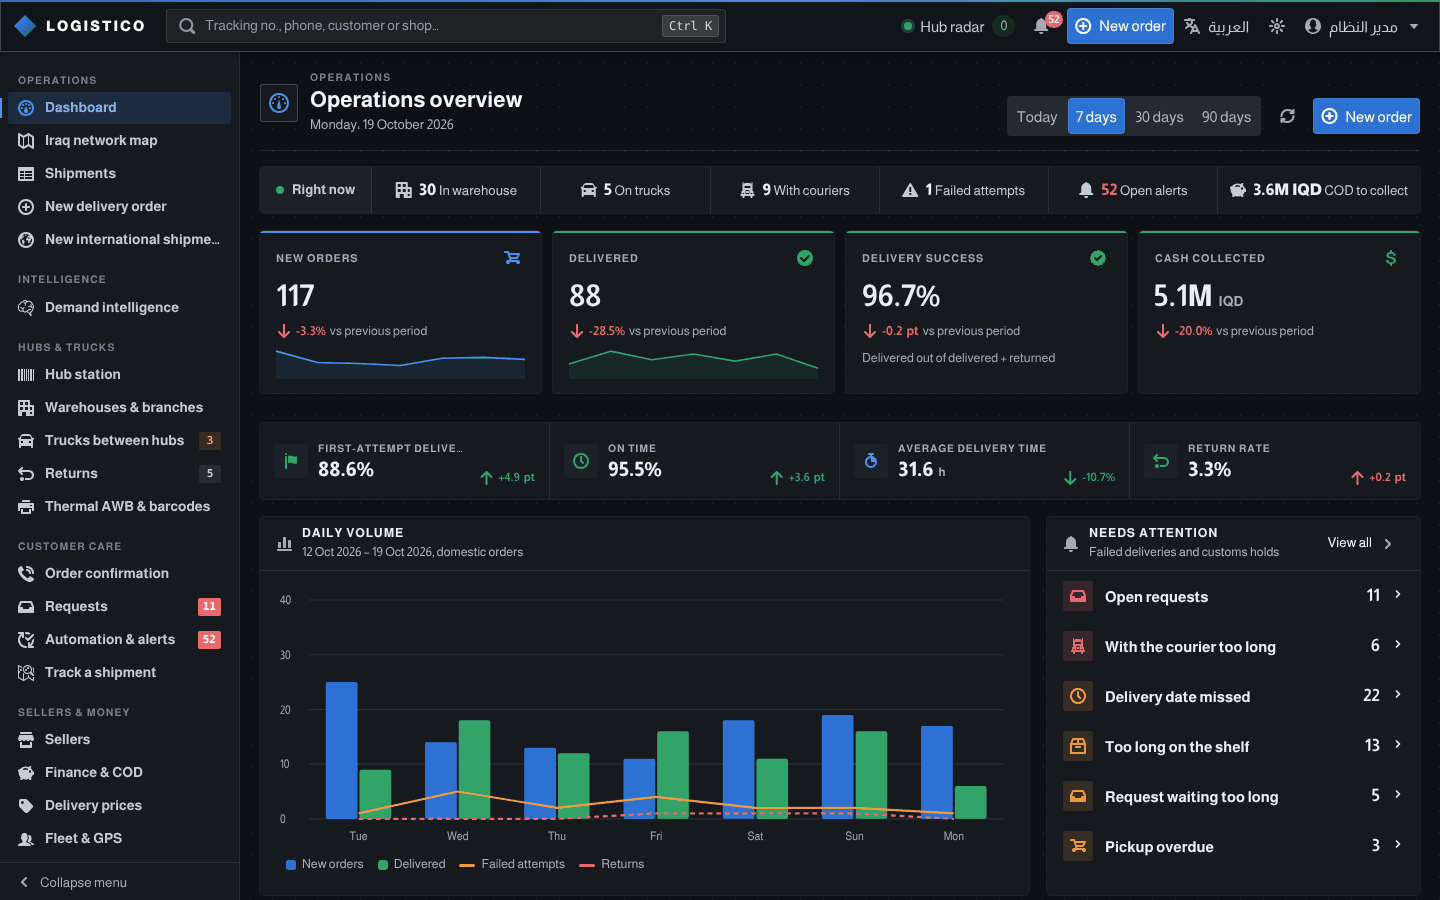
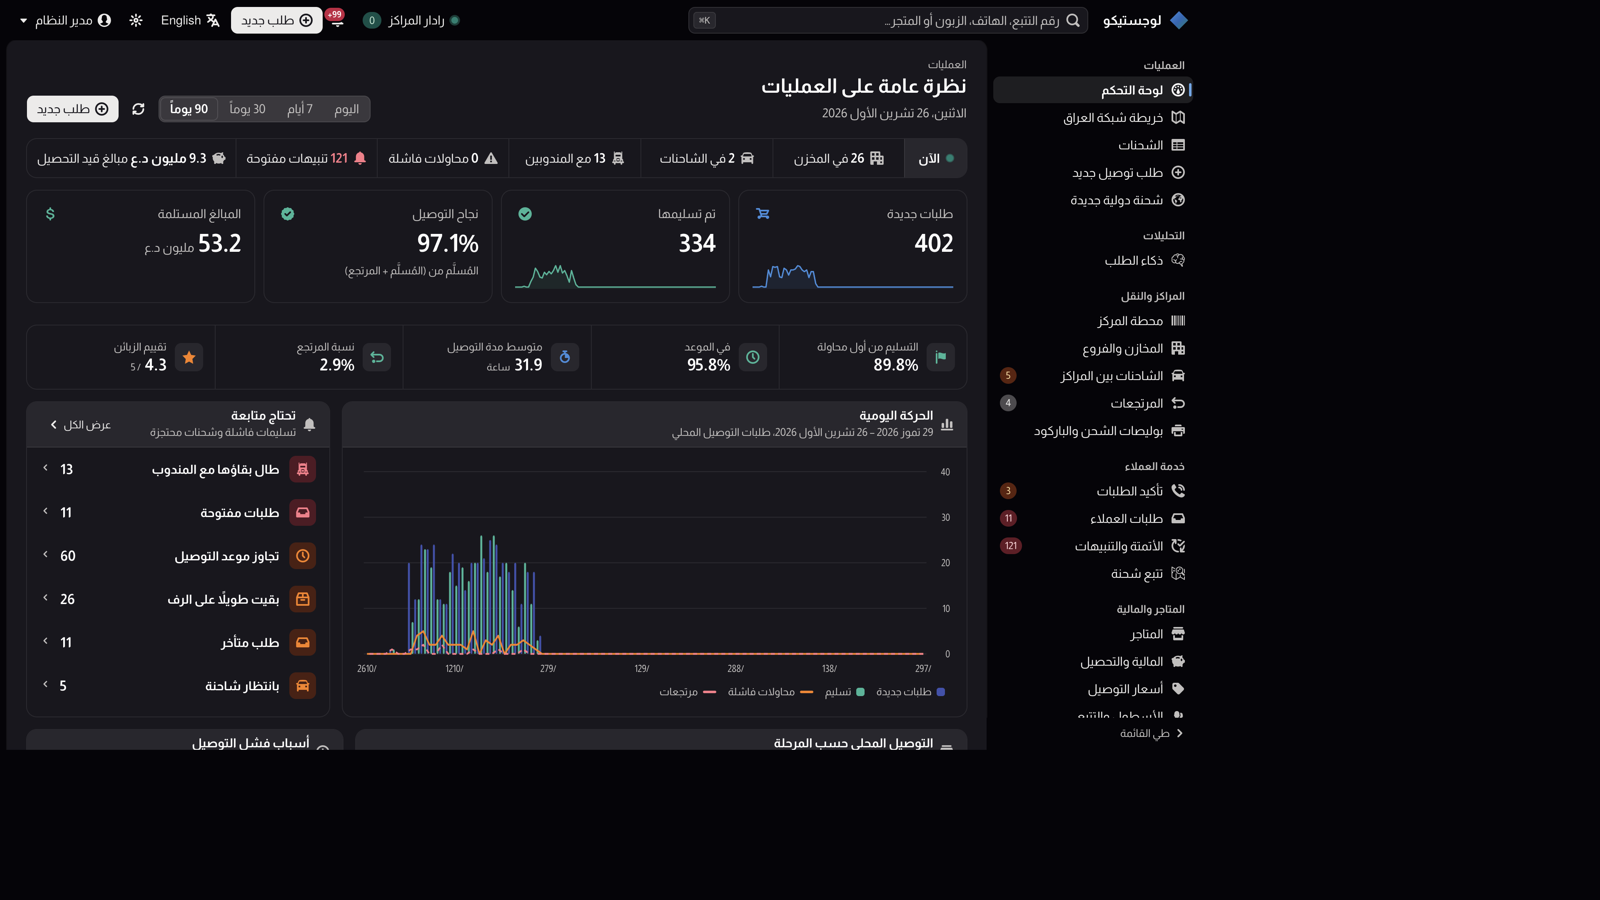
Show the current console and soften dark-mode borders.
The README, screenshots and public page now describe the light delivery console, and dark mode no longer keeps the light theme's bright outlines.

diff --git a/src/Logistico.Web/wwwroot/app.css b/src/Logistico.Web/wwwroot/app.css
@@ -261,6 +261,7 @@ html[lang^="ar"] { --lx-font-size: 15px; --lx-font-size-sm: 13px; }
 html {
     font-size: var(--lx-font-size); -webkit-text-size-adjust: 100%;
     -webkit-font-smoothing: antialiased; -moz-osx-font-smoothing: grayscale;
+    color-scheme: light;
 }
 html, body { margin: 0; min-height: 100%; }
 body {
@@ -1723,9 +1724,10 @@ tr.lx-row-busy { opacity: 0.55; }
     --lx-surface-overlap: var(--gl-color-neutral-900);
     --lx-surface-hover: rgba(255, 255, 255, 0.12);
     --lx-surface-active: rgba(255, 255, 255, 0.08);
-    --lx-border: var(--gl-color-neutral-700);
-    --lx-border-subtle: var(--gl-color-neutral-800);
-    --lx-border-strong: var(--gl-color-neutral-600);
+    /* Hairlines, not wires: a solid mid-grey on near-black reads as a hard grid. */
+    --lx-border: rgba(255, 255, 255, 0.08);
+    --lx-border-subtle: rgba(255, 255, 255, 0.05);
+    --lx-border-strong: rgba(255, 255, 255, 0.14);
     --lx-text: var(--gl-color-neutral-50);
     --lx-text-strong: var(--gl-color-neutral-0);
     --lx-text-2: var(--gl-color-neutral-100);
@@ -1734,8 +1736,8 @@ tr.lx-row-busy { opacity: 0.55; }
     --lx-link: var(--gl-color-blue-200);
 
     --lx-control-bg: rgba(5, 5, 6, 0.4);
-    --lx-control-border: var(--gl-color-neutral-500);
-    --lx-control-border-hover: var(--gl-color-neutral-300);
+    --lx-control-border: rgba(255, 255, 255, 0.2);
+    --lx-control-border-hover: rgba(255, 255, 255, 0.34);
     --lx-control-border-focus: var(--gl-color-neutral-50);
     --lx-control-disabled: rgba(255, 255, 255, 0.04);
     --lx-placeholder: var(--gl-color-neutral-400);
@@ -1743,8 +1745,8 @@ tr.lx-row-busy { opacity: 0.55; }
     --lx-selected-hover: var(--gl-color-neutral-10);
     --lx-selected-active: var(--gl-color-neutral-0);
     --lx-on-selected: var(--gl-color-neutral-950);
-    --lx-button-border: rgba(255, 255, 255, 0.16);
-    --lx-button-border-hover: rgba(255, 255, 255, 0.32);
+    --lx-button-border: rgba(255, 255, 255, 0.1);
+    --lx-button-border-hover: rgba(255, 255, 255, 0.2);
     --lx-button-hover: rgba(137, 136, 141, 0.32);
     --lx-button-active: rgba(137, 136, 141, 0.24);
     --lx-focus: var(--gl-color-blue-400);
@@ -1753,21 +1755,21 @@ tr.lx-row-busy { opacity: 0.55; }
     --lx-primary: var(--gl-color-blue-400);
     --lx-primary-soft: color-mix(in srgb, var(--gl-color-blue-950) 80%, transparent);
     --lx-primary-text: var(--gl-color-blue-200);
-    --lx-primary-border: var(--gl-color-blue-600);
+    --lx-primary-border: color-mix(in srgb, var(--gl-color-blue-300) 42%, transparent);
     --lx-success: var(--gl-color-green-300);
     --lx-success-soft: color-mix(in srgb, var(--gl-color-green-900) 75%, transparent);
     --lx-success-text: var(--gl-color-green-200);
-    --lx-success-border: var(--gl-color-green-600);
+    --lx-success-border: color-mix(in srgb, var(--gl-color-green-300) 40%, transparent);
     --lx-warning: var(--gl-color-orange-300);
     --lx-warning-soft: color-mix(in srgb, var(--gl-color-orange-900) 75%, transparent);
     --lx-warning-text: var(--gl-color-orange-200);
-    --lx-warning-border: var(--gl-color-orange-600);
+    --lx-warning-border: color-mix(in srgb, var(--gl-color-orange-300) 40%, transparent);
     --lx-danger: var(--gl-color-red-300);
     --lx-danger-soft: color-mix(in srgb, var(--gl-color-red-900) 75%, transparent);
     --lx-danger-text: var(--gl-color-red-200);
-    --lx-danger-border: var(--gl-color-red-300);
+    --lx-danger-border: color-mix(in srgb, var(--gl-color-red-300) 42%, transparent);
     --lx-neutral-soft: var(--gl-color-neutral-900);
-    --lx-neutral-border: var(--gl-color-neutral-600);
+    --lx-neutral-border: rgba(255, 255, 255, 0.1);
 
     --lx-badge-neutral-bg: var(--gl-color-neutral-700);
     --lx-badge-neutral-text: var(--gl-color-neutral-50);
@@ -1804,7 +1806,7 @@ tr.lx-row-busy { opacity: 0.55; }
     --lx-map-4: var(--gl-color-data-blue-500);
     --lx-map-5: var(--gl-color-data-blue-300);
     --lx-map-6: var(--gl-color-data-blue-100);
-    --lx-map-stroke: var(--gl-color-neutral-950);
+    --lx-map-stroke: rgba(255, 255, 255, 0.14);
     --lx-map-ink: var(--gl-color-neutral-0);
     --lx-map-halo: rgba(5, 4, 8, 0.85);
     --lx-map-d0: var(--gl-color-red-300);
@@ -1822,13 +1824,23 @@ tr.lx-row-busy { opacity: 0.55; }
     --lx-shadow-sm: 0 0 2px 0 rgba(5, 5, 6, 0.4), 0 1px 4px 0 rgba(5, 5, 6, 0.4);
     --lx-shadow-md: 0 0 1px 0 rgba(5, 5, 6, 0.4), 0 0 2px 0 rgba(5, 5, 6, 0.4), 0 2px 8px 0 rgba(5, 5, 6, 0.4);
     --lx-shadow-lg: 0 0 2px 0 rgba(5, 5, 6, 0.4), 0 0 2px 0 rgba(5, 5, 6, 0.4), 0 4px 12px 0 rgba(5, 5, 6, 0.4);
+    /* Redefined here: these shadows are computed on :root, so they otherwise keep the light-theme border. */
+    --lx-shadow: 0 0 0 1px rgba(255, 255, 255, 0.08);
+    --lx-shadow-interactive: 0 0 0 1px rgba(255, 255, 255, 0.16), var(--lx-shadow-sm);
+    --lx-shadow-raised: 0 0 0 1px rgba(255, 255, 255, 0.14), var(--lx-shadow-lg);
+    --lx-focus-ring: 0 0 0 1px var(--gl-color-neutral-950), 0 0 0 3px var(--gl-color-blue-400);
 }
+html:has(body.bp6-dark) { color-scheme: dark; }
 body.bp6-dark { color: var(--lx-text); background: var(--lx-bg); color-scheme: dark; }
 .bp6-dark ::selection { background: var(--gl-color-blue-900); }
 .bp6-dark .lx-command-card { color: #050408; }
 .bp6-dark .lx-nav-item.active::before { background: var(--gl-color-blue-300); }
 .bp6-dark .lx-segmented-raised, .bp6-dark .bp6-segmented-control > .bp6-button.bp6-intent-primary,
-.bp6-dark .bp6-segmented-control > .bp6-button.bp6-intent-primary:hover { background: var(--gl-color-neutral-700); box-shadow: none; }
+.bp6-dark .bp6-segmented-control > .bp6-button.bp6-intent-primary:hover {
+    background: var(--gl-color-neutral-800); box-shadow: inset 0 0 0 1px rgba(255, 255, 255, 0.12);
+}
+.bp6-dark .lx-map-gov:hover { stroke: rgba(255, 255, 255, 0.55); }
+.bp6-dark .lx-map-gov-selected { stroke: var(--gl-color-blue-200) !important; }
 /* Filled intent buttons only: minimal and outlined ones keep their transparent background. */
 .bp6-dark .bp6-button.bp6-intent-danger:not(.bp6-minimal):not(.bp6-outlined) { background: var(--gl-color-red-500); box-shadow: none; }
 .bp6-dark .bp6-button.bp6-intent-danger:not(.bp6-minimal):not(.bp6-outlined):hover { background: var(--gl-color-red-600); }
@@ -1840,7 +1852,7 @@ body.bp6-dark { color: var(--lx-text); background: var(--lx-bg); color-scheme: d
 .bp6-dark .bp6-input, .bp6-dark .bp6-html-select select { color: var(--lx-text-strong); }
 .bp6-dark .bp6-html-select option { background: var(--gl-color-neutral-900); color: var(--lx-text); }
 .bp6-dark .lx-main { box-shadow: 0 0 0 1px var(--lx-border-subtle); }
-.bp6-dark .lx-toast { box-shadow: 0 0 0 1px var(--gl-color-neutral-600), var(--lx-shadow-lg); }
+.bp6-dark .lx-toast { box-shadow: 0 0 0 1px rgba(255, 255, 255, 0.12), var(--lx-shadow-lg); }
 
 
 /* ---------- 15. Small screens ---------- */

diff --git a/src/Logistico.Web/wwwroot/js/lx.js b/src/Logistico.Web/wwwroot/js/lx.js
@@ -32,10 +32,18 @@ window.lx = {
         try { localStorage.setItem("lx.theme", on ? "dark" : "light"); } catch { /* private mode */ }
         window.lx._chrome(on);
     },
-    // The browser's own bars follow the application chrome colour.
+    // The browser's own bars follow the application chrome colour. color-scheme stays explicit:
+    // "light dark" would let the operating system restyle controls while the app is still light.
     _chrome: (dark) => {
         document.body.classList.toggle("bp6-dark", dark);
+        document.documentElement.style.colorScheme = dark ? "dark" : "light";
         document.querySelector('meta[name="theme-color"]')?.setAttribute("content", dark ? "#050408" : "#ecebea");
+        document.querySelector('meta[name="color-scheme"]')?.setAttribute("content", dark ? "dark" : "light");
+    },
+    shortcutHint: () => {
+        const platform = navigator.userAgentData?.platform || navigator.platform || "";
+        const apple = /mac|iphone|ipad|ipod/i.test(platform) || /Mac|iPhone|iPad/.test(navigator.userAgent);
+        return apple ? "⌘K" : "Ctrl K";
     },
     isMuted: () => { try { return localStorage.getItem("lx.muted") === "true"; } catch { return false; } },
     setMuted: (muted) => {

diff --git a/src/Logistico.Web/wwwroot/account.css b/src/Logistico.Web/wwwroot/account.css
@@ -55,7 +55,7 @@ textarea.form-control { height: auto; min-height: 72px; padding-block: 6px; }
 .nav { list-style: none; padding: 0; margin: 0; display: flex; flex-direction: column; gap: 2px; }
 .nav-link { display: block; padding: 6px 12px; border-radius: var(--lx-radius); color: var(--lx-text); text-decoration: none; }
 .nav-link:hover { background: var(--lx-surface-hover); text-decoration: none; }
-.nav-link.active { background: rgba(5, 5, 6, 0.08); color: var(--lx-text-strong); font-weight: 700; }
+.nav-link.active { background: var(--lx-nav-active, rgba(5, 5, 6, 0.08)); color: var(--lx-text-strong); font-weight: 700; }
 
 .table { width: 100%; border-collapse: collapse; }
 .table td, .table th { padding: 10px 16px; border-block-end: 1px solid var(--lx-border); text-align: start; }

diff --git a/README.md b/README.md
@@ -2,13 +2,17 @@
 
 # Logistico · لوجستيكو
 
-**Open-source logistics and delivery platform built for Iraq: from the Instagram shop to the customer's door, with the data to make Iraqi shipping better.**
+**Open-source logistics and delivery management system: orders, warehouses, trucks, couriers, shipment tracking, returns and cash on delivery — built for Iraq, useful anywhere the address is a neighbourhood and a landmark.**
 
-Version 3.0 · Arabic-first (RTL) · English · .NET 10 · Blazor WebAssembly · PostgreSQL · Blueprint (Palantir's design system)
+Version 3.0 · Arabic-first (RTL) · English · .NET 10 · Blazor WebAssembly · PostgreSQL · Apache-2.0
 
 [Quick start](#quick-start) · [What it does](#what-it-does) · [Demand intelligence](#demand-intelligence-the-data-advantage) · [Docs](#documentation) · [Contributing](CONTRIBUTING.md)
 
-![Operations overview, dark theme](docs/images/dashboard-dark.png)
+A delivery company runs the whole day in one console: book a parcel, scan it through hubs, put it on a truck, hand it to a courier, collect the cash, and see why deliveries fail. The interface is **light by default** (a quiet grey frame and white work panels). Dark mode is one click in the top bar. Arabic is the default language and the layout is right-to-left.
+
+![Operations overview in the light theme: orders, delivery success, cash collected and the daily volume](docs/images/dashboard-light.png)
+
+![The same operations overview in the dark theme](docs/images/dashboard-dark.png)
 
 </div>
 
@@ -47,8 +51,8 @@ do deliveries fail?** Companies can publish anonymised answers as open data, so 
 
 <table>
 <tr>
-<td width="50%"><img src="docs/images/network-map-ar.png" alt="Iraq network map in Arabic"></td>
-<td width="50%"><img src="docs/images/shipments-light.png" alt="Shipments list, light theme"></td>
+<td width="50%"><img src="docs/images/network-map-ar.png" alt="Open-source logistics software: Iraq network map with hubs, trucks and governorates, Arabic right-to-left"></td>
+<td width="50%"><img src="docs/images/shipments-light.png" alt="Delivery management shipment list with tracking numbers, status, cash on delivery and destination"></td>
 </tr>
 <tr>
 <td align="center">Iraq network map (Arabic, right-to-left)</td>
@@ -100,7 +104,7 @@ dotnet run --project src/Logistico.Web --launch-profile http
 ```
 
 - App: http://localhost:5210 · Public tracking: http://localhost:5210/track · OpenAPI: http://localhost:5210/openapi/v1.json
-- The UI is in Arabic by default; switch to English from the top bar. Dark theme by default; light from the top bar.
+- The UI is in Arabic by default; switch to English from the top bar. Light theme by default; dark from the top bar.
 
 ### Tests
 
@@ -117,7 +121,7 @@ Set `LOGISTICO_TEST_DB` to point the integration tests at another PostgreSQL ser
 | Layer | Choice |
 |---|---|
 | Language / runtime | C# on .NET 10 (LTS) |
-| Web UI | Blazor WebAssembly with Logistico's own components on **Blueprint 6** CSS and icons (Palantir, Apache-2.0). Dark operations-console theme by default |
+| Web UI | Blazor WebAssembly with Logistico's own components. **GitLab Pajamas** sets the look (light by default, dark on request); **Blueprint 6** CSS and icons (Palantir, Apache-2.0) supply tables, menus, dialogs and hotkeys |
 | Languages | Arabic (`ar-IQ`, default, RTL) and English; Almarai font; Western digits; Iraqi month names; Arabic plural forms |
 | Backend | ASP.NET Core modular monolith (strict module boundaries, contracts shared with the browser) |
 | Database | PostgreSQL with EF Core 10 (schema per module, snake_case, optimistic concurrency) |

diff --git a/CHANGELOG.md b/CHANGELOG.md
@@ -26,6 +26,11 @@ versions follow [Semantic Versioning](https://semver.org/).
   payout waits for the next one. 0 % (the default) keeps returns free.
 
 ### Fixed
+- **Dark mode drew a hard grid.** Cards, tables, the dashboard pulse, shipment rows and the Iraq map used solid mid-grey borders on a near-black surface. Those lines are now faint white hairlines, and status outlines are tinted instead of fully saturated. Inputs stay visible.
+- **The installed app still opened on the old dark splash.** Home-screen colour and the browser chrome now follow the light theme (`#ecebea`), and dark mode still switches them. A computer set to dark mode no longer restyles Logistico's controls unless dark mode is chosen in the app.
+- **The search hint said Ctrl K on a Mac**, where the shortcut is ⌘K. The command palette still opens with either key.
+- **The current page in the account menu disappeared in dark mode** (the highlight was a black tint on a black surface).
+- **Link previews and search engines only saw the word "Logistico".** The public page now has a title and description in Arabic and English, Open Graph tags, and a `robots.txt`.
 - **Customs value in the right currency.** An import declared in dinars was valued as if the amount were US dollars
   (a 6.55 million IQD parcel was assessed as $6.55 million); dinars are now converted at the official rate, and other
   currencies, or no declared value, are left for the clerk to enter in dollars from the invoice instead of an invented
@@ -47,6 +52,7 @@ versions follow [Semantic Versioning](https://semver.org/).
   now shows all collected cash not handed in, whatever the day.
 
 ### Changed
+- **README and docs match the light console.** New screenshots of the dashboard (light and dark), the shipments list, the Iraq map and demand intelligence. Dark-mode borders are documented as hairlines.
 - **New look: GitLab's Pajamas design system on Blueprint.** Navigation sits on a quiet grey frame and each page is a
   white panel; buttons, inputs, badges, alerts, tabs, tables, dialogs, drawers and toasts follow Pajamas (32 px
   controls, 8 px corners, a near-black main action, blue links and focus rings, colour kept for status). Blueprint

diff --git a/docs/13-roadmap.md b/docs/13-roadmap.md
@@ -14,7 +14,7 @@ This is where Logistico is heading. It is a direction, not a promise of dates: i
 - **Delivery ratings** from the tracking page; low ratings open complaints.
 - **Team and roles:** administrators manage staff accounts; five roles (including customer support) enforced by the API on every endpoint and followed by the UI; safe concurrent team changes; password resets by administrators.
 - **Demand intelligence:** what customers order, where and when, basket size against refusals, trade lanes, repeat customers, plain-language findings and an anonymised open-data export.
-- **Operations-console theme** (dark by default), Content-Security-Policy with nonces, compressed API answers, proxy-aware rate limits, truck-manifest guards, customer self-service lockout.
+- **Operations-console theme**, later set to light by default with dark on request ([ADR-029](14-architecture-decisions.md)), Content-Security-Policy with nonces, compressed API answers, proxy-aware rate limits, truck-manifest guards, customer self-service lockout.
 - Translated sign-in and password messages; Docker Compose for evaluation; open-source release (Apache-2.0).
 
 ### 2.1 and earlier

diff --git a/docs/08-ui-ux-design-system.md b/docs/08-ui-ux-design-system.md
@@ -119,7 +119,9 @@ The map is built into the app; there is no map service, API key or tile server.
 The look follows GitLab's Pajamas design system; Blueprint's components are restyled to it, not replaced.
 
 - **Light is the default**, as in GitLab; dark is one click away (top bar or user menu) and remembered per browser
-  (`bp6-dark` on `<body>`). The browser bar colour follows the chrome.
+  (`bp6-dark` on `<body>`). The browser bar colour follows the chrome. In dark mode, card and table borders are
+  faint white hairlines. The card shadow is redefined there, because a shadow computed on the light theme would
+  otherwise keep a bright grey outline.
 - **Colour**: Pajamas' warm neutrals for surfaces and text, blue for links, focus rings and "info", green, orange and
   red for status only. Every value is a token in `app.css` §1: `--gl-color-*` are Pajamas primitives, `--lx-*` are
   the semantic tokens the rules use (`--lx-surface`, `--lx-text-strong`, `--lx-badge-info-bg`…). Section 14 redefines

diff --git a/docs/00-overview.md b/docs/00-overview.md
@@ -45,7 +45,7 @@ The larger scope ([01](01-research-findings.md), [02](02-domain-model.md)) adds 
 
 | Platform | Technology | Status |
 |---|---|---|
-| Web app (all office roles) | Blazor WebAssembly + Blueprint 6 CSS with our own Blazor components, served by the ASP.NET Core host; dark operations-console theme by default | Built |
+| Web app (all office roles) | Blazor WebAssembly served by the ASP.NET Core host. GitLab Pajamas sets the look (light by default, dark on request); Blueprint 6 supplies the component mechanics | Built |
 | Evaluation | `docker compose up` with demo data, no .NET SDK needed | Built |
 | Public tracking | Same web app, anonymous pages | Built |
 | Desktop app | Installable web app (PWA), .NET MAUI Blazor Hybrid or Avalonia ([09](09-client-applications.md)) | Open for discussion |
